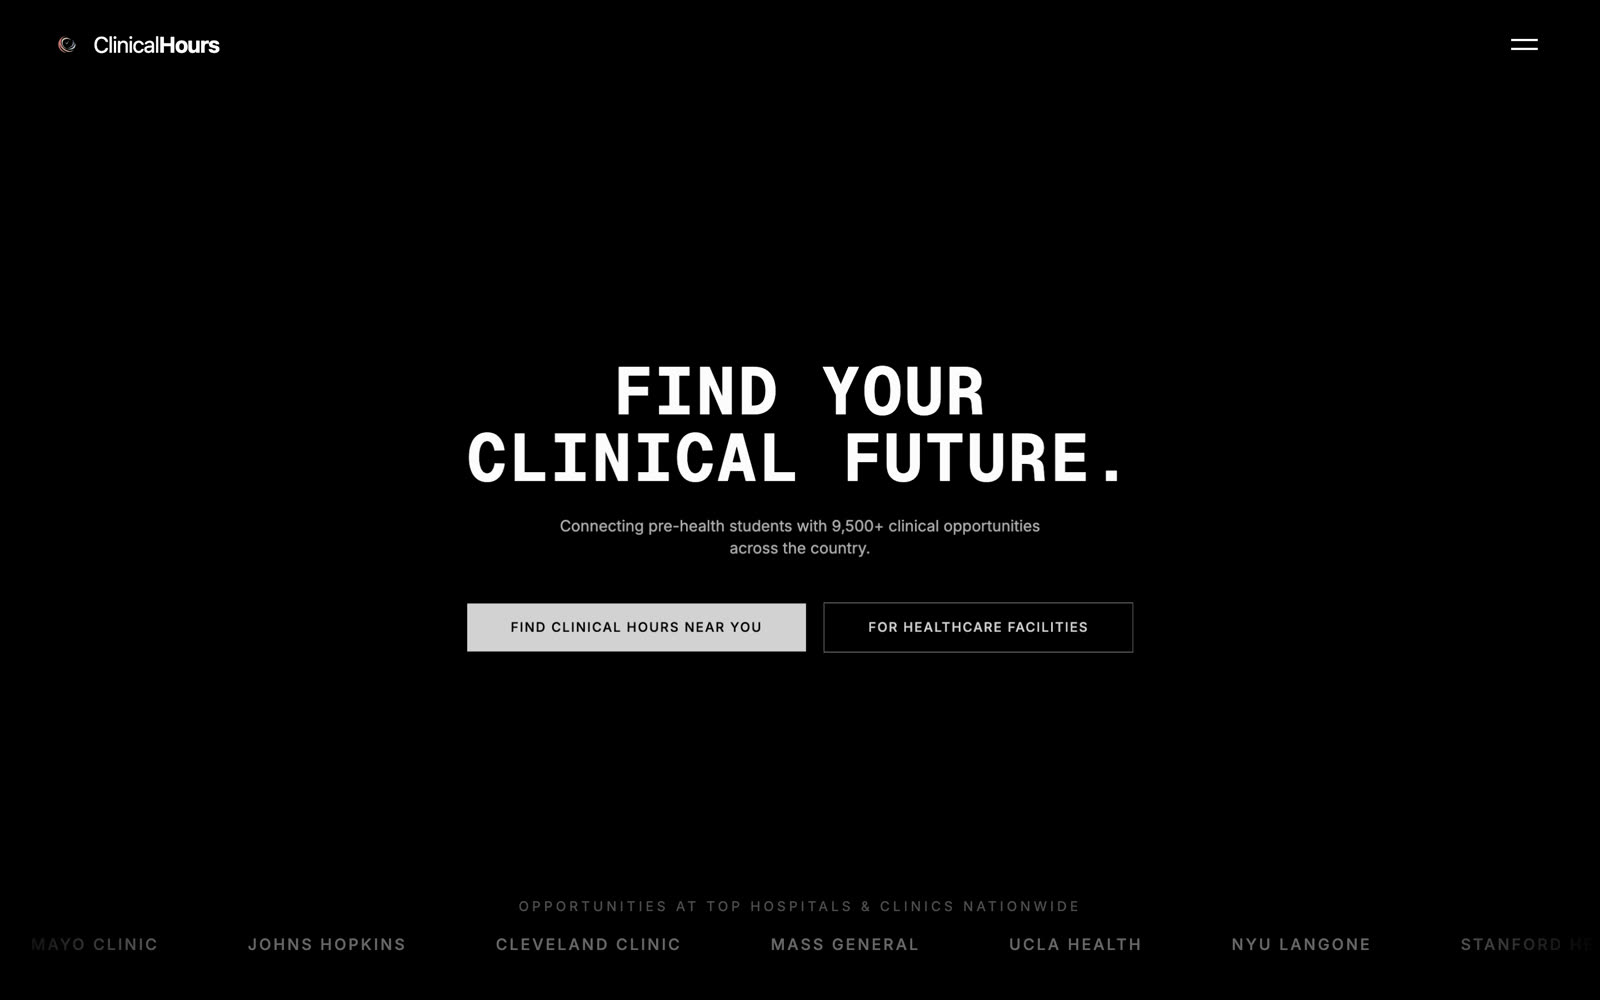
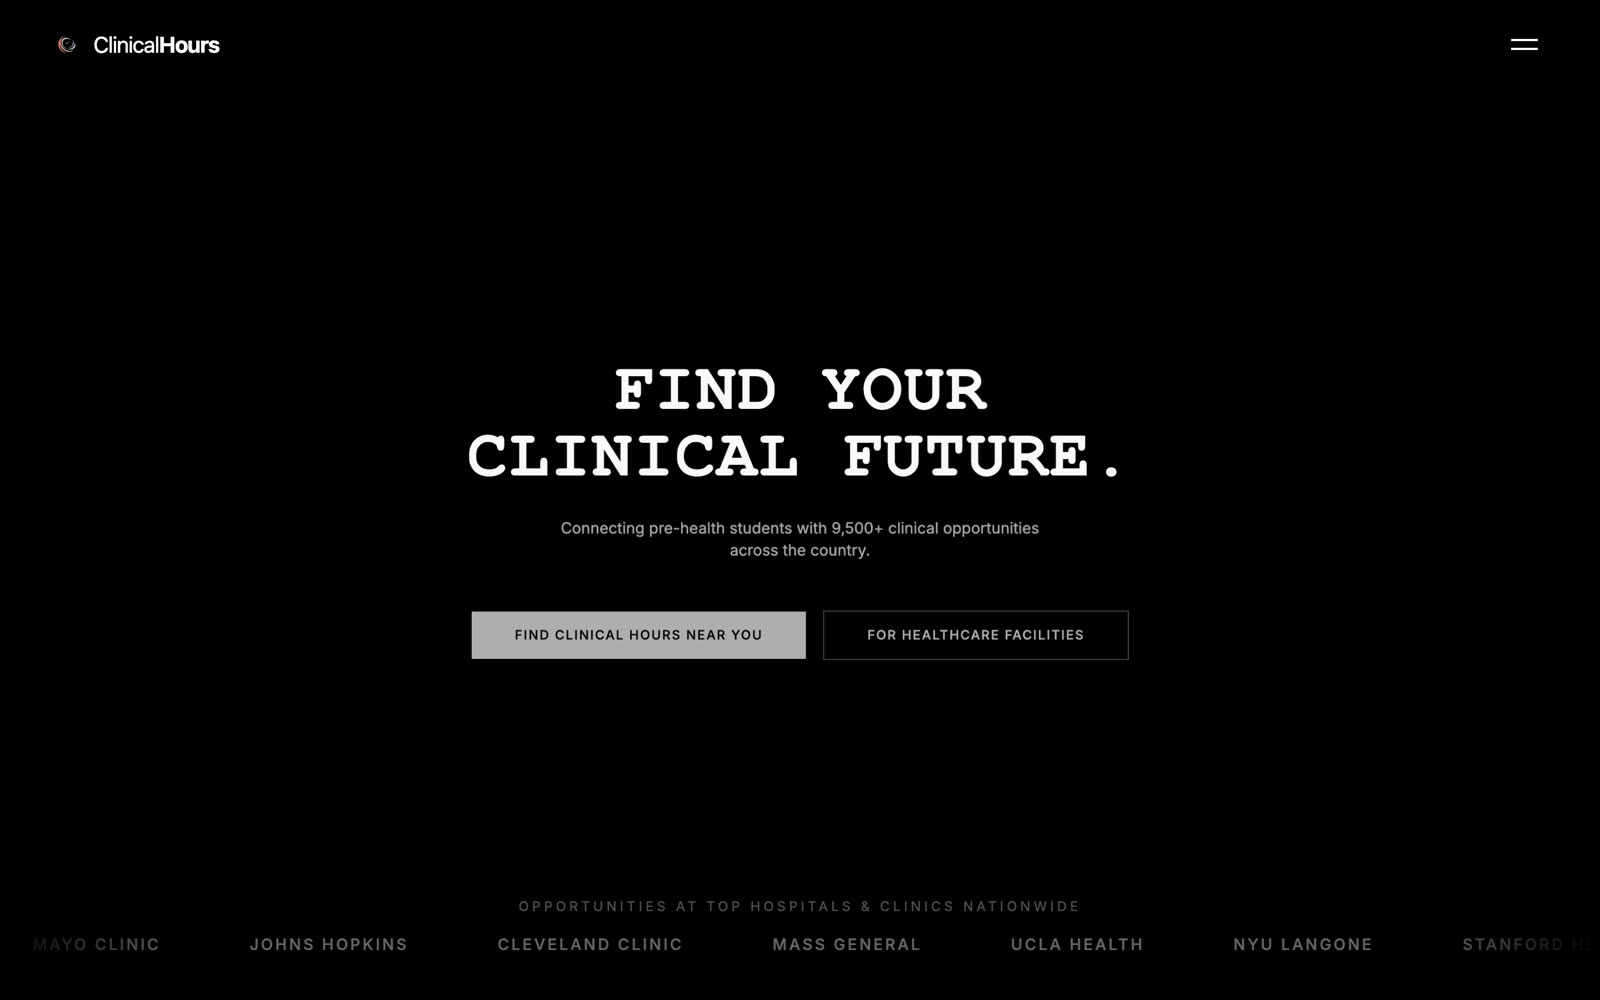
Put the résumé on the page, add Harbor, and stop the car tipping over
**The résumé is readable without leaving the page.** It is rendered to an
image rather than dropped into an iframe: an embedded PDF viewer is a
scrollbar inside a scrollbar, grey plugin chrome on some browsers and a
download prompt on most phones, and it fetches a megabyte to show one page.
The real file is still one click away, and still downloadable.

**Flips.** Roll is already locked on the body — a car that can roll ends up
on its back — so every flip in this game is a pitch: a kerb or a joint tips
the nose and the car goes end over end. Two changes. The pitch rate is now
bled off continuously while the wheels are down, which is a damper and not a
lock, so the car still noses up a ramp and down the far side but a single
bump cannot become a tumble. And the ring road's kerbs came down from 0.75
above the deck to 0.29 — at forty units a second that height was a launch
ramp, not a guide rail.

**Harbor** is in, restored from the version of content.ts the résumé rewrite
replaced. It is the project behind the TidalTAMU Gemini win the résumé lists,
so it belongs next to it. It ships without a screenshot: three attempts
caught its hero mid-crossfade over a near-black photograph, twice with the
live news panel reading "No headlines available". A murky rectangle would say
less about the project than the words do.

Shot Sensei now links to the Devpost entry alongside its live site, and the
boardroom photograph joins the hero rotation now that the patient record on
[…]

diff --git a/src/pages/Home.tsx b/src/pages/Home.tsx
@@ -51,6 +51,15 @@ const PHOTOS = [
     caption: "pulsematic, on the whiteboard",
     position: "72% 40%",
   },
+  {
+    src: "photos/demo.jpg",
+    // The patient record on the screen is synthetic demo data, confirmed by
+    // him — worth recording, because a legible clinical record on a public
+    // page is not something to ship on an assumption.
+    alt: "Pulsematic being demonstrated to the team at Matic",
+    caption: "demoing pulsematic",
+    position: "50% 46%",
+  },
 ];
 
 /** A hairline-boxed label. The reference's one recurring ornament. */
@@ -206,6 +215,7 @@ export default function Home() {
 
   const sections = [
     ...ZONES.map((z) => ({ id: z.id, label: z.sign.toLowerCase() })),
+    { id: "resume", label: "résumé" },
     { id: "play", label: "play" },
   ];
 
@@ -370,6 +380,51 @@ export default function Home() {
           </div>
         </section>
       ))}
+
+      {/*
+        The résumé, on the page.
+
+        Rendered to an image rather than dropped in an <iframe>: an embedded
+        PDF viewer is a scrollbar inside a scrollbar, it is grey plugin chrome
+        on some browsers and a download prompt on most phones, and it loads a
+        megabyte to show one page. This is that page as a picture, with the
+        real file one click away for anyone who wants to keep it.
+      */}
+      <section id="resume" className="scroll-mt-14 border-b border-black">
+        <div className="flex flex-wrap items-baseline justify-between gap-4 px-6 py-5 sm:px-10">
+          <h2 className="u-grotesk text-[clamp(1.6rem,4vw,2.6rem)] font-medium leading-none tracking-[-0.04em]">
+            résumé
+          </h2>
+          <div className="flex items-center gap-4">
+            <a
+              href={withBase("Amritaraj_Nair_Resume.pdf")}
+              target="_blank"
+              rel="noreferrer noopener"
+              className="u-grotesk inline-block rounded-[3px] bg-black px-3.5 py-1.5 text-[0.78rem] text-white transition-opacity hover:opacity-80"
+            >
+              open pdf ↗
+            </a>
+            <a
+              href={withBase("Amritaraj_Nair_Resume.pdf")}
+              download
+              className="u-grotesk border-b border-black pb-0.5 text-[0.8rem] transition-opacity hover:opacity-55"
+            >
+              download
+            </a>
+          </div>
+        </div>
+
+        <Reveal className="u-reveal border-t border-black bg-[#f4f4f4] px-6 py-10 sm:px-10">
+          <img
+            src={withBase("resume-preview.jpg")}
+            alt="Amritaraj Nair's résumé"
+            width={1400}
+            height={1812}
+            loading="lazy"
+            className="mx-auto block w-full max-w-3xl border border-black bg-white"
+          />
+        </Reveal>
+      </section>
 
       {/* The world. The one place the page lets the colour in. */}
       <section id="play" className="scroll-mt-14 border-b border-black">

diff --git a/src/world/Car.tsx b/src/world/Car.tsx
@@ -39,6 +39,7 @@ import {
   KICKER_BOOST_FILL,
   KICKER_RADIUS,
   KICKER_SURGE,
+  GROUND_PITCH_DAMP,
   LANDING_KEEP,
   driveForce,
 } from "./drive";
@@ -118,6 +119,7 @@ const visualForward = new THREE.Vector3();
 const camOffsetUp = new THREE.Vector3(0, CAM_HEIGHT, 0);
 const camLookUp = new THREE.Vector3(0, 1.2, 0);
 const carUp = new THREE.Vector3();
+const spinVector = new THREE.Vector3();
 
 type DriftState = { chain: number; held: number; lapsed: number };
 
@@ -392,7 +394,19 @@ export default function Car({ onMove }: { onMove?: (p: THREE.Vector3) => void })
     // the circuit could be ground at but never completed.
     const spin = rb.angvel();
     if (grounded) {
-      rb.setAngvel({ x: spin.x, y: steer * turnRate * steerFactor * direction, z: spin.z }, true);
+      /*
+       * Bleed off the pitch rate while the wheels are down. Only the component
+       * about the car's own right axis is touched — yaw is the steering, and
+       * roll is locked by the body — so the car still pitches to follow a ramp,
+       * it just cannot be tumbled by one bump.
+       */
+      spinVector.set(spin.x, spin.y, spin.z);
+      const settle = 1 - Math.exp(-GROUND_PITCH_DAMP * delta);
+      spinVector.addScaledVector(right, -spinVector.dot(right) * settle);
+      rb.setAngvel(
+        { x: spinVector.x, y: steer * turnRate * steerFactor * direction, z: spinVector.z },
+        true,
+      );
     }
 
     /*

diff --git a/src/world/content.ts b/src/world/content.ts
@@ -172,6 +172,20 @@ export const ZONES: Zone[] = [
         links: [{ label: "clinicalhours.org", href: "https://clinicalhours.org" }],
       },
       {
+        id: "harbor",
+        title: "Harbor",
+        subtitle: "Disaster preparedness platform",
+        meta: "TidalTAMU 2026",
+        body: "Helps communities plan for, coordinate during and recover from emergencies. First place in the Google Gemini track.",
+        bullets: [
+          "AI-powered resource matching for disaster response",
+          "Community coordination and communication tooling",
+          "Live natural-disaster news and an interactive globe, built on Google Gemini",
+        ],
+        tags: ["React", "Gemini", "Supabase"],
+        links: [{ label: "harbordisaster.xyz", href: "https://harbordisaster.xyz" }],
+      },
+      {
         id: "shotsensei",
         title: "Shot Sensei",
         subtitle: "Co-Founder & Lead Developer",
@@ -186,8 +200,8 @@ export const ZONES: Zone[] = [
         tags: ["OpenCV", "YOLOv8", "Gemini", "ElevenLabs", "Supabase"],
         shot: "shots/shotsensei.jpg",
         links: [
+          { label: "Devpost", href: "https://devpost.com/software/a-d3b6nf" },
           { label: "playshotsensei.com", href: "https://playshotsensei.com" },
-          { label: "Demo video", href: "https://www.youtube.com/watch?v=v3SNs0O3G5g" },
         ],
       },
     ],

diff --git a/src/world/drive.ts b/src/world/drive.ts
@@ -72,6 +72,19 @@ export const FALL_GRAVITY = 14;
 export const LANDING_KEEP = 0.35;
 
 /**
+ * How hard the car resists being pitched while its wheels are down.
+ *
+ * Roll is locked outright — a car that can roll ends up on its back — so
+ * every flip in this game is a pitch: a kerb, a joint or a landing tips the
+ * nose and the car goes over end-over-end. On the ground the car should
+ * follow the slope it is on and nothing else, so the pitch *rate* is bled off
+ * continuously. It is a rate damper, not a lock: the car still noses up a
+ * ramp and down the far side, it just stops a single bump from becoming a
+ * tumble. Per second, applied exponentially so it is frame-rate independent.
+ */
+export const GROUND_PITCH_DAMP = 7.5;
+
+/**
  * Kicker pads. Driving onto a kicker face fires a surge and pours into the
  * boost tank, so a ramp taken at cruising speed still launches properly.
  *

diff --git a/src/world/Highways.tsx b/src/world/Highways.tsx
@@ -66,11 +66,14 @@ function RingSurface() {
         >
           {/* Deck slab. Its top face sits flush with the visual deck. */}
           <CuboidCollider args={[DECK_WIDTH / 2, 0.35, half]} position={[0, -0.35, 0]} />
+          {/* A low lip, not a wall. At the old height its top stood 0.75
+              above the deck, and clipping that at speed launches the car
+              rather than guiding it back. Still tall enough to feel. */}
           {[-1, 1].map((side) => (
             <CuboidCollider
               key={side}
-              args={[0.35, 0.55, half]}
-              position={[(side * DECK_WIDTH) / 2, 0.2, 0]}
+              args={[0.35, 0.33, half]}
+              position={[(side * DECK_WIDTH) / 2, -0.04, 0]}
             />
           ))}
         </group>

diff --git a/CLAUDE.md b/CLAUDE.md
@@ -162,6 +162,14 @@ round, the car exports standing on its nose.
   the sky if raised.
 - **The car's uprightness is `up · worldUp`, not pitch.** A car on its side has
   an ordinary pitch angle.
+- **Every flip in this game is a pitch.** Roll is locked on the body
+  (`enabledRotations` Z false) because a car that can roll ends up on its
+  back, so a kerb or a joint tipping the nose is the only way over. On the
+  ground the pitch *rate* is bled off continuously (`GROUND_PITCH_DAMP`) — a
+  rate damper, not a lock, so the car still noses up a ramp and down the far
+  side. Anything that can launch the car is a flip risk in proportion to its
+  height: the ring's kerbs stood 0.75 above the deck and were a launch ramp
+  at the current top speed.
 - **Airborne means no control**: throttle, brakes, boost, grip and steering are
   all gated on the ground ray. Only the trick keys work in the air.
 - **What you hit must be what you see.** The barriers were 1.9 tall in physics
